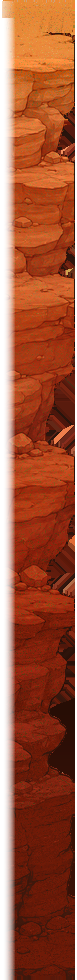
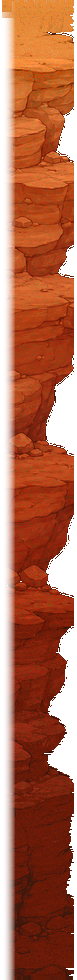
Give canyon ridges a jagged sky silhouette instead of a ruler lip.
Key near-black to transparency and keep the bank side clean over TrailFloor dirt, so the cliff reads as organic against open sky.

Changed region(s): [[0.5974, 0.0, 0.987, 1.0], [0.026, 0.0, 0.1558, 0.0306]]

diff --git a/README.md b/README.md
@@ -2,7 +2,7 @@
 
 Child-friendly 2D western cowboy platformer (Godot **4.4**). Aimed at kids ~6: forgiving jumps, no lives/game-over, nonviolent lasso. **German is the default language**; English is fully supported. Optional spoken instructions use local OS TTS (Narrator).
 
-**Content version:** `1.3.59` (see `content_version.txt`). Launchers reimport when this stamp changes.
+**Content version:** `1.3.61` (see `content_version.txt`). Launchers reimport when this stamp changes.
 
 This README is the **binding source of truth** for gameplay, level design, art, i18n, and audio. Agents and contributors must follow it (see [Agent / contributor rules](#agent--contributor-rules)).
 
@@ -86,7 +86,7 @@ Agents **must** honor these when editing levels or trail systems:
 ### Canyon art
 
 - Hand-painted **rims sit outside** desert floor banks — never cover the brown desert surface span with rim sprites.
-- Ridges are **full-height handcrafted cliff faces** (ink outlines, painted rock — same illustrative western style as cactus/mesas): a **thin canyon-facing edge** from the desert top down to the bottom of the trail dirt / view — not a short rim lip, not a wide orange slab over the bank, and not flat TrailFloor dirt-cut ends. The **bank/inland side stays transparent** so normal TrailFloor dirt tiling shows behind the face. Ridge tops use the same warm sand crust as the trail and **align flush with the desert top** (no sky slits under the sand). The canyon-facing edge is a **straight vertical lip**. Rims draw **in front of** desert floor tiles so lips sit on the canyon edge. Desert surface tiles **inset slightly at canyon lips** so sand never overhangs into the mouth; dirt runs nearly to the lip behind the thin face.
+- Ridges are **full-height handcrafted cliff faces** (ink outlines, painted rock — same illustrative western style as cactus/mesas): a **thin canyon-facing edge** from the desert top down to the bottom of the trail dirt / view — not a short rim lip, not a wide orange slab over the bank, and not flat TrailFloor dirt-cut ends. The **bank/inland side stays transparent** so normal TrailFloor dirt tiling shows behind the face. Ridge tops use the same warm sand crust as the trail and **align flush with the desert top** (no sky slits under the sand). The canyon-facing edge against open sky is a **natural jagged / irregular silhouette** (not a ruler-straight vertical cut). The bank/inland side still meets TrailFloor earth cleanly. Rims draw **in front of** desert floor tiles so lips sit on the canyon edge. Desert surface tiles **inset slightly at canyon lips** so sand never overhangs into the mouth; dirt runs nearly to the lip behind the thin face.
 - Between the ridges: **open sky only** — punch horizon hills (Mesa backdrop) and FloorAbyss out of the gap column so trail SkyArt / Background shows through. Do **not** paint a stretched sky-fill column, depth shelves, floor wash, inner-wall fill, or mountain scenery inside the mouth; **never** a featureless black / flat near-black void or black outline framing the lips.
 - Horizon hills / Mesa backdrop must **not** silhouette over or through canyon openings (sky continues through the gap).
 - Widening a gap must not stretch handmade rim textures (width may shrink to fit; cliff height stays full).
